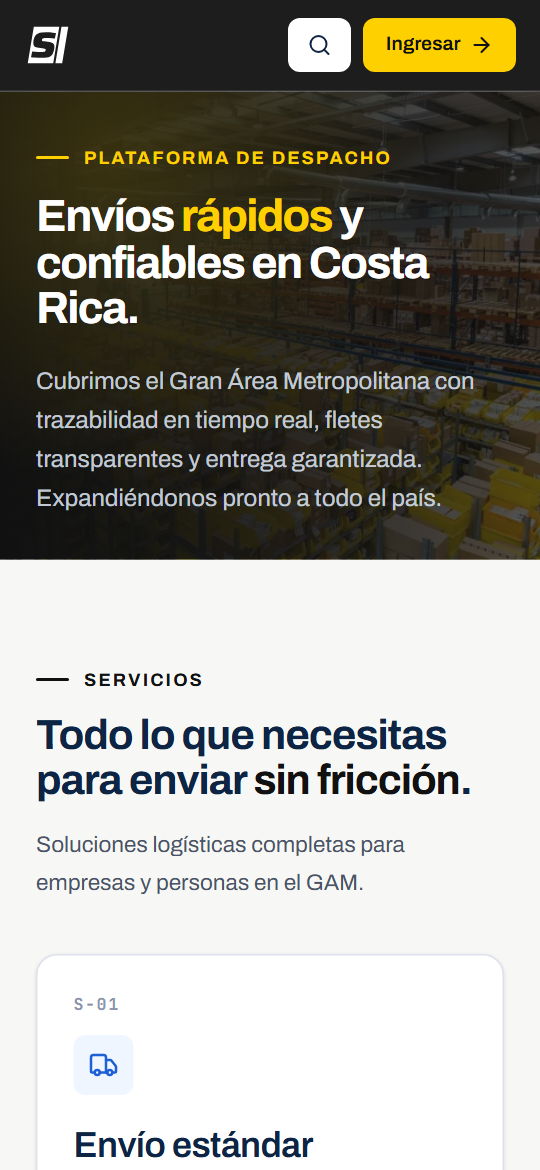
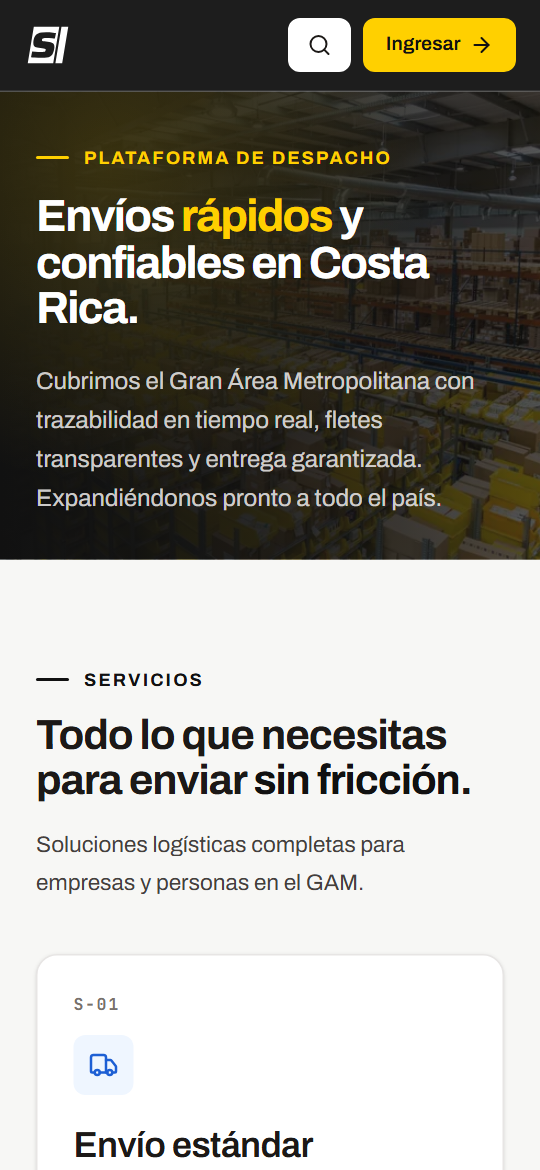
feat(SL-33): T7 y T8, verificacion publica, capturas PWA regeneradas y umbral de marca anterior a 0.1 %

diff --git a/tests/unit/guards/marca-pwa-capturas-iconos.guardia.test.ts b/tests/unit/guards/marca-pwa-capturas-iconos.guardia.test.ts
@@ -56,21 +56,22 @@ const COLORES_MARCA_NUEVA: readonly Rgb[] = [
 ];
 const DISTANCIA_MAXIMA = 24;
 
-// Umbrales (decision del humano, 2026-10-28; `design.md > D2 > Umbral fijado`). Medidas, con la
-// marca anterior sumando naranja y navy:
+// Umbrales (decision del humano, 2026-10-28; SL-9 `design.md > D2 > Umbral fijado`, y SL-33
+// `design.md > D11`). Medidas, con la marca anterior sumando naranja y navy:
 //
-//   captura          anterior/viejas  anterior/nuevas      nueva/viejas  nueva/nuevas
-//   inicio-narrow    78.323 %         1.289 % (todo navy)  0 %           18.509 %
-//   ingreso-narrow    2.283 %         0.015 %              0 %            4.197 %
-//   inicio-wide      81.199 %         0.836 % (todo navy)  0 %           23.020 %
+//   captura          anterior/viejas  anterior/SL-9        anterior/SL-33  nueva/viejas  nueva/SL-33
+//   inicio-narrow    78.323 %         1.289 % (todo navy)  0.039 %         0 %           19.748 %
+//   ingreso-narrow    2.283 %         0.015 %              0.015 %         0 %            4.197 %
+//   inicio-wide      81.199 %         0.836 % (todo navy)  0.020 %         0 %           23.829 %
 //
-// El navy que queda en las capturas nuevas viene del titulo de servicios de la landing:
-// `TituloSeccion` (`app/_landing/primitivas.tsx`) usa `text-asfalto-9`, y `--color-asfalto-9`
-// vale `#0d2444`, a distancia <= 24 del navy `#0b2545`. Los tokens `asfalto-*` son de SL-33, que
-// los cambiara; al cerrar SL-33 las capturas se regeneran con el script y este hueco se agranda.
-// Por eso el umbral de la marca anterior es < 1.8 %: entre el maximo de las nuevas (1.289 %) y
-// el minimo de las viejas (2.283 %).
-const UMBRAL_MARCA_ANTERIOR = 0.018;
+// En SL-9 quedaba navy en la landing: `TituloSeccion` usaba `text-asfalto-9`, que valia
+// `#0d2444`, a distancia <= 24 del navy `#0b2545`, y el umbral se fijo en < 1.8 %. SL-33 paso
+// `asfalto-9` a `stone-900` y regenero las capturas con `scripts/capturas-pwa.mjs`: lo que queda
+// (0.039 % como maximo, todo navy) son pixeles sueltos de suavizado de bordes, no una superficie.
+// El umbral baja al maximo medido redondeado hacia arriba a la decima: < 0.1 %. Deja 2.5 veces
+// el maximo de las nuevas y queda muy por debajo del minimo de las viejas (2.283 %); ademas ya
+// pone rojas las capturas de SL-9 con el titulo navy (1.289 % y 0.836 %).
+const UMBRAL_MARCA_ANTERIOR = 0.001;
 const UMBRAL_MARCA_NUEVA = 0.01;
 
 /** Fraccion de pixeles a distancia euclidea RGB <= 24 de alguno de los colores dados. */

diff --git a/progress/impl_SL-33.md b/progress/impl_SL-33.md
@@ -184,20 +184,57 @@ El tope 0.12 es el máximo medido (0.117) redondeado hacia arriba. `button.tsx` 
 | R12 | `paleta-secundaria.guardia` (R12), `tests/unit/guards/tema-encendido.guardia.test.ts` | verde |
 | R13 | `paleta-secundaria.guardia` (R13, tablas de `docs/marca.md` con cifras del fixture) | verde |
 | R14 | Guardias de D8 con literales nuevos: `contraste-tokens`, `factura-contraste`, `impresion-tokens`, `impresion-sin-dark`, `marca-texto-amarillo`; el diff de umbrales está en «T5» arriba | verde |
-| R15 | `tests/unit/guards/marca-pwa-capturas-iconos.guardia.test.ts` (umbral nuevo de T8) | PENDIENTE: T8 bloqueada |
+| R15 | `tests/unit/guards/marca-pwa-capturas-iconos.guardia.test.ts` (`UMBRAL_MARCA_ANTERIOR` 0.018 → 0.001, capturas regeneradas en T8) | verde |
 | R16 | `paleta-secundaria.guardia` (R16) | verde |
 | R17 | `paleta-secundaria.guardia` (R17), `marca-estaticos.guardia` | verde |
 | R18 | `paleta-secundaria.guardia` (R18), `tests/components/RedDeErrores.test.tsx` | verde |
-| R19 | `paleta-secundaria.guardia` (R19); la captura del mapa de T7 queda pendiente | verde (captura pendiente) |
+| R19 | `paleta-secundaria.guardia` (R19: pin y tramo `#111111`, contraste contra `TIERRA_OSM` y contra la ruta) | verde; la captura del mapa sobre OSM es verificación manual del humano, pendiente |
 | R20 | `paleta-secundaria.guardia` (R20, barrido sin exclusiones añadidas) | verde |
 
-## Pendiente: T7 y T8 bloqueadas por variables de entorno
+## T7 — Verificación en el navegador (alcance reducido, decisión humana 2026-10-28)
 
-Para entrar en las pantallas autenticadas de T7 (`/analitica`, `/monitoreo`, `/ranking`, mapas de
-`/mis-asignaciones`) y en `/` de T8 hace falta una sesión. Tal como la monta
-`playwright.config.ts > webServer.env`, la sesión necesita más variables que `DATABASE_URL`:
-`SUPABASE_URL`, `SUPABASE_SERVICE_ROLE_KEY` y `NEXT_PUBLIC_SUPABASE_*` (con el doble
-`e2e/_storage-falso`), `AUTH_OTP_DEBUG_LOG` y `SMTP_USER`/`SMTP_PASSWORD`. Además, la `DATABASE_URL`
-local no está en el entorno de esta sesión, y el implementer no puede leer el `.env` principal
-(lo bloquea el entorno). Se para según la regla del humano: «si hace falta otra variable, PARA».
-T9 queda cerrada salvo R15 y la captura de R19.
+Montaje: `pnpm dev -p 3044` con un entorno vacío más la `DATABASE_URL` local (host `localhost`,
+autorizada por el humano; no se escribe en ningún archivo). Sin Supabase ni dobles de sesión.
+Servidor apagado al terminar (el árbol de procesos entero); el 3044 queda libre y el 3000 no se tocó.
+
+Capturas en `_trabajo/SL-33/` (fuera de git), en claro y en oscuro:
+- `/`: bien. Los títulos de servicios, «Cómo funciona» y «Trabajá con nosotros» salen en `#1c1917`
+  (`stone-900`): **ya no son navy**.
+- `/login`: bien; botón principal `#111111` con texto blanco.
+- `/offline.html`: bien; fondo `#F7F7F5`, título `#111111`, texto `stone-700`, icono `stone-500`.
+- `global-error` (forzado con un `throw` temporal en `app/layout.tsx`, ya revertido; `app/` sin
+  cambios): fondo `#111111`, texto blanco, botón `#FFD000` con tinta negra.
+- `design-whatsapp/Main.dc.html`: legible; barra `#1C1C1A`, texto `#C0C0BE`, ítem activo `#2E2E2C`.
+- `design-notificaciones/Push.dc.html`: legible. El cuadrado de icono `#111111` sobre la tarjeta
+  (`#343433`) no lleva borde y su contorno queda en ≈1.5:1: se distingue, pero es más tenue que con el
+  naranja de antes. El glifo blanco mide 18.9:1. Se anota y no se trata como fallo.
+- Claro y oscuro dan la misma imagen en estas pantallas: la landing y `/login` fijan `tema-claro`,
+  `offline.html` y las maquetas no tienen variante oscura y `global-error` usa estilos en línea.
+- **D5, punto 1:** no aplica en lo público. Ni `/` ni `/login` muestran un botón `secondary`, y esa
+  variante solo se usa en el área privada.
+
+**Verificación manual del humano, pendiente:** `/analitica` (series distinguibles), `/monitoreo`
+(barra y tarjetas concuerdan), `/ranking` (podio), los dos mapas de `/mis-asignaciones` (pin y tramo
+sobre el mapa) y el color real de la tierra de OSM. `TIERRA_OSM` queda como está (`#f2efe9`).
+
+## T8 — Capturas de la PWA
+
+`CAPTURAS_URL=http://localhost:3044 node scripts/capturas-pwa.mjs`: exit 0 y las 3 capturas
+regeneradas. No pidió sesión. Medida con el método de la guardia (`sharp`, distancia RGB ≤ 24 al
+naranja y al navy de SL-8 D5); el naranja da 0 % en todas.
+
+| Captura | Marca anterior, antes (SL-9) | Ahora | Marca nueva, antes | Ahora |
+|---|---|---|---|---|
+| inicio-narrow | 1.289 % | 0.039 % | 18.509 % | 19.748 % |
+| ingreso-narrow | 0.015 % | 0.015 % | 4.197 % | 4.197 % |
+| inicio-wide | 0.836 % | 0.020 % | 23.020 % | 23.829 % |
+
+Umbral: `UMBRAL_MARCA_ANTERIOR` 0.018 → **0.001** (< 0.1 %), con el criterio de SL-9 D2. El máximo
+medido (0.039 %), redondeado hacia arriba a la décima, da 0.1 %. Las capturas de la marca anterior
+miden como mínimo 2.283 %: el hueco es claro, unas 23 veces el umbral, y además el umbral nuevo
+pondría en rojo las capturas de SL-9 con el título navy. El navy que queda son píxeles sueltos de
+suavizado. La guardia solo guarda las huellas prohibidas de la marca anterior y no hay huellas de
+las capturas actuales que actualizar.
+
+Salida (implementer): `vitest run marca-pwa-capturas-iconos.guardia + capturas-pwa + paleta-secundaria.guardia`:
+`Test Files 3 passed (3) · Tests 95 passed (95)`.

diff --git a/specs/SL-33-paleta-secundaria/tasks.md b/specs/SL-33-paleta-secundaria/tasks.md
@@ -103,7 +103,7 @@
   `docs-marca-heredada.guardia`, `notifications-bell-tokens.guardia` y `sin-nombre-heredado.guardia`
   en verde.
 
-- [ ] **T7 — Verificación en el navegador.** Depende de T2 a T6c.
+- [x] **T7 — Verificación en el navegador.** Depende de T2 a T6c.
   - Montaje: `pnpm dev -p 3044` con solo la `DATABASE_URL` local, en claro y en oscuro.
   - Pantallas: `/analitica`, `/monitoreo`, `/ranking`, `/`, los dos mapas de `/mis-asignaciones`,
     `/offline.html` y `global-error` (forzado en local, D14).
@@ -120,7 +120,7 @@
   **Hecho:** capturas y notas en `progress/impl_SL-33.md`. Si algo se ve mal, se para y se avisa al
   leader antes de seguir.
 
-- [ ] **T8 — Capturas de la PWA** (R15; D11). Depende de T7, con la paleta cerrada.
+- [x] **T8 — Capturas de la PWA** (R15; D11). Depende de T7, con la paleta cerrada.
   - `node scripts/capturas-pwa.mjs` con el montaje de T7.
   - Medir y bajar el umbral de «marca anterior» de la guardia de SL-9 al valor medido, redondeado
     hacia arriba a la décima.
@@ -129,7 +129,7 @@
   **Hecho:** `public/screenshots/*.png` regeneradas, la guardia de SL-9 en verde con el umbral nuevo
   y la medida pegada en `progress/impl_SL-33.md`.
 
-- [ ] **T9 — Cierre.** Depende de todas.
+- [x] **T9 — Cierre.** Depende de todas.
   - Grep de «Ordenex» en los archivos de «Archivos esperados»: salida vacía.
   - Typecheck, `test:guardias` y `vitest related` sobre todo el diff.
   - El mapa `R<n> → test` en `progress/impl_SL-33.md`.
